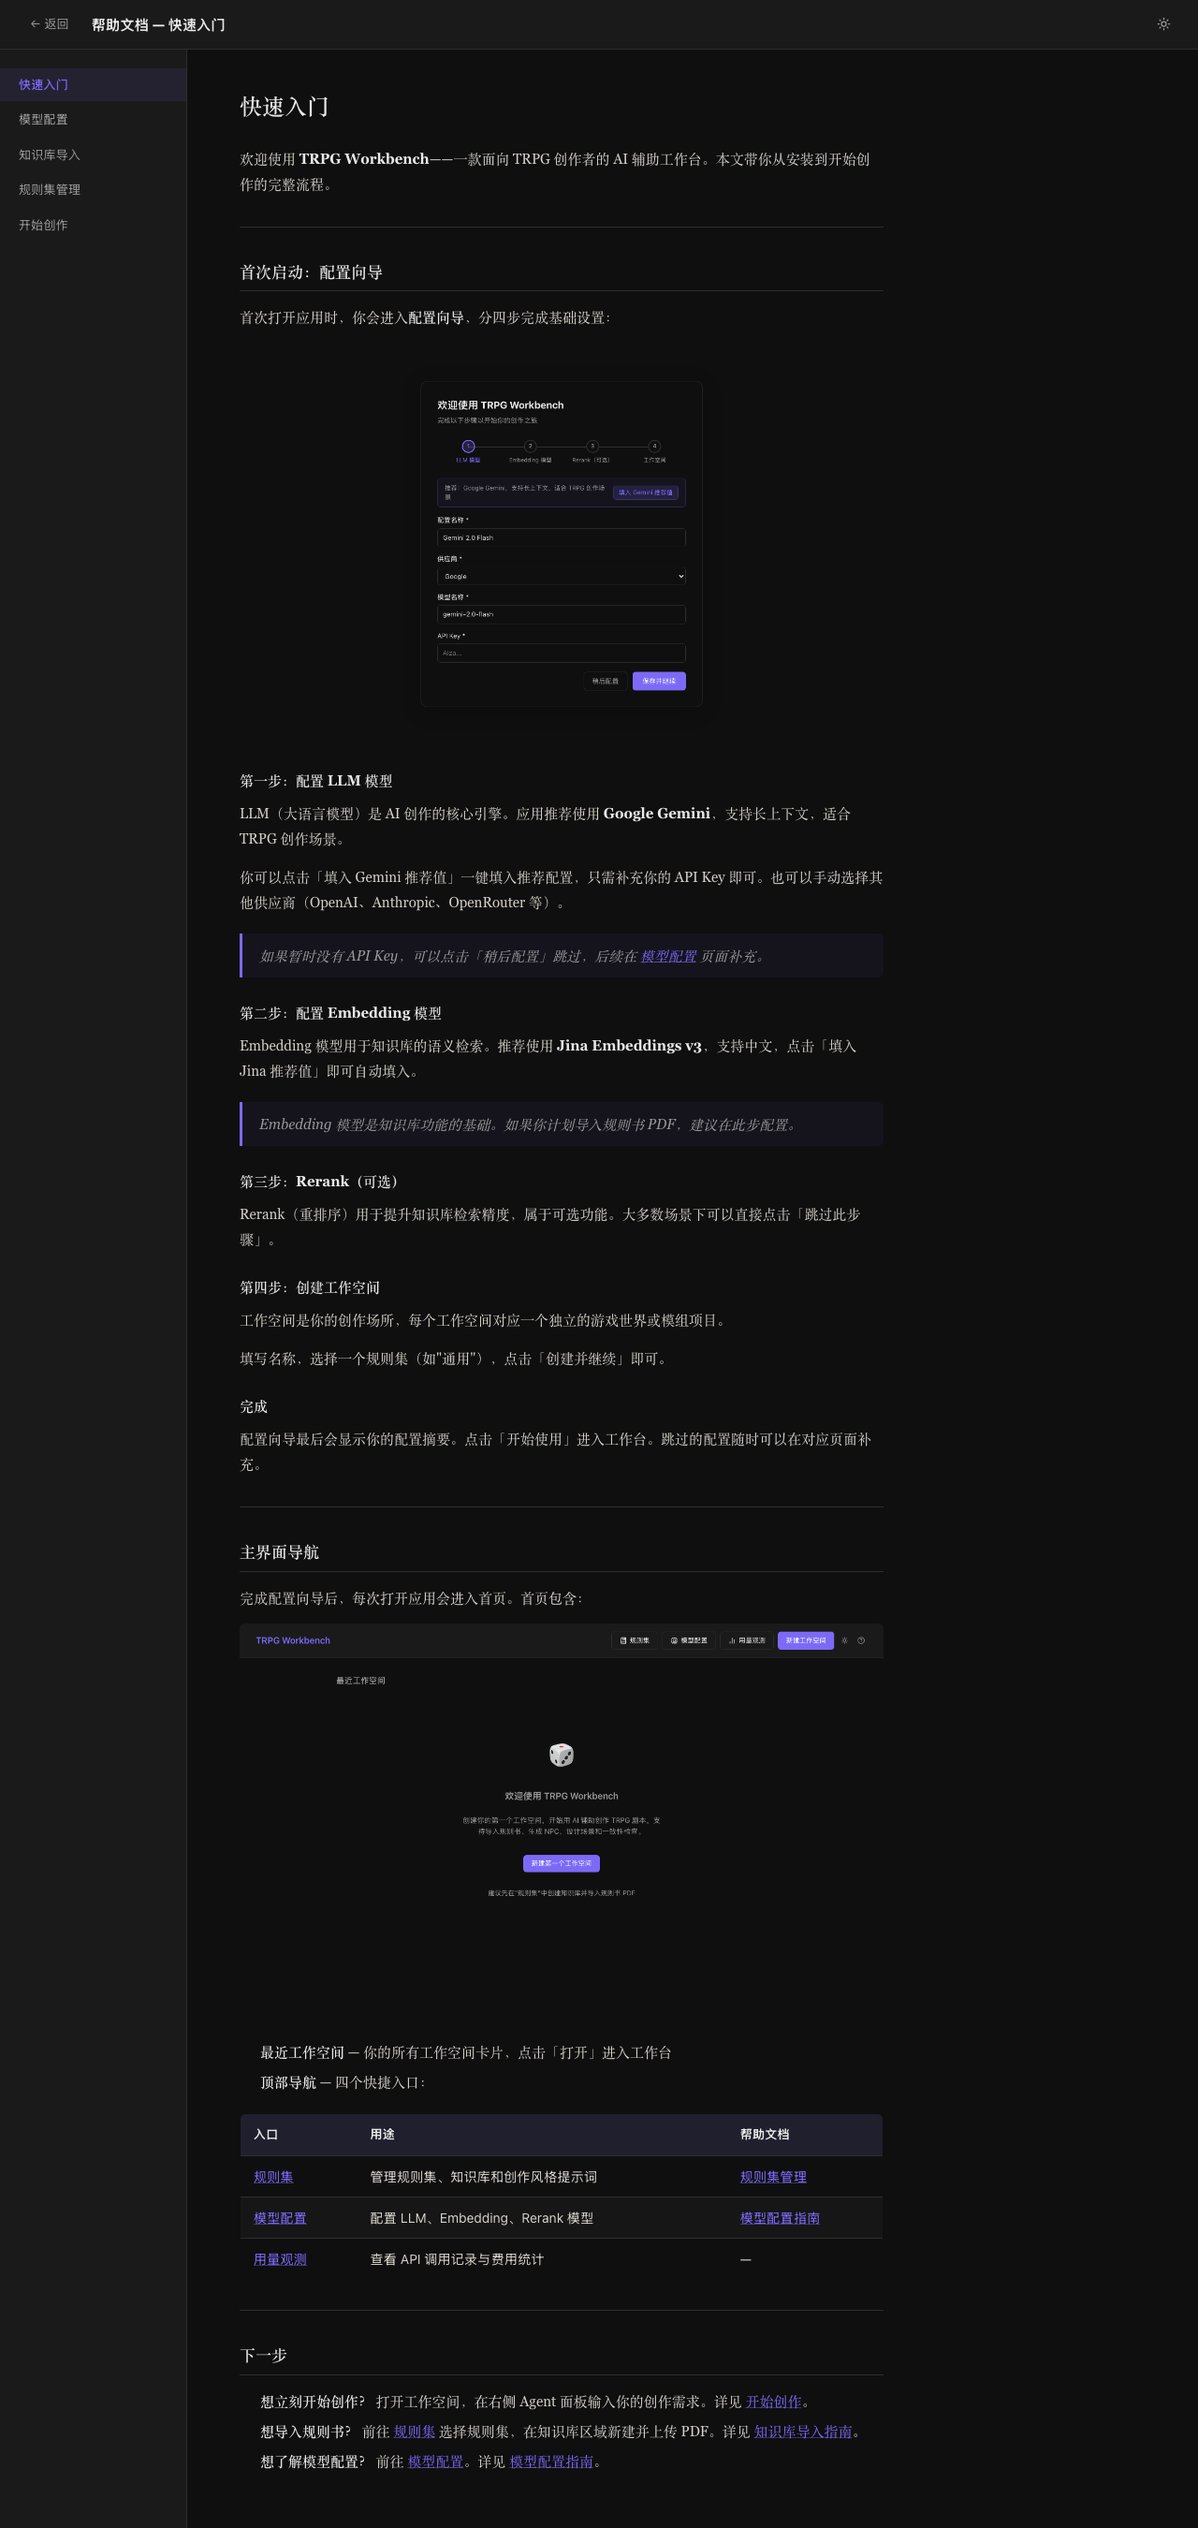
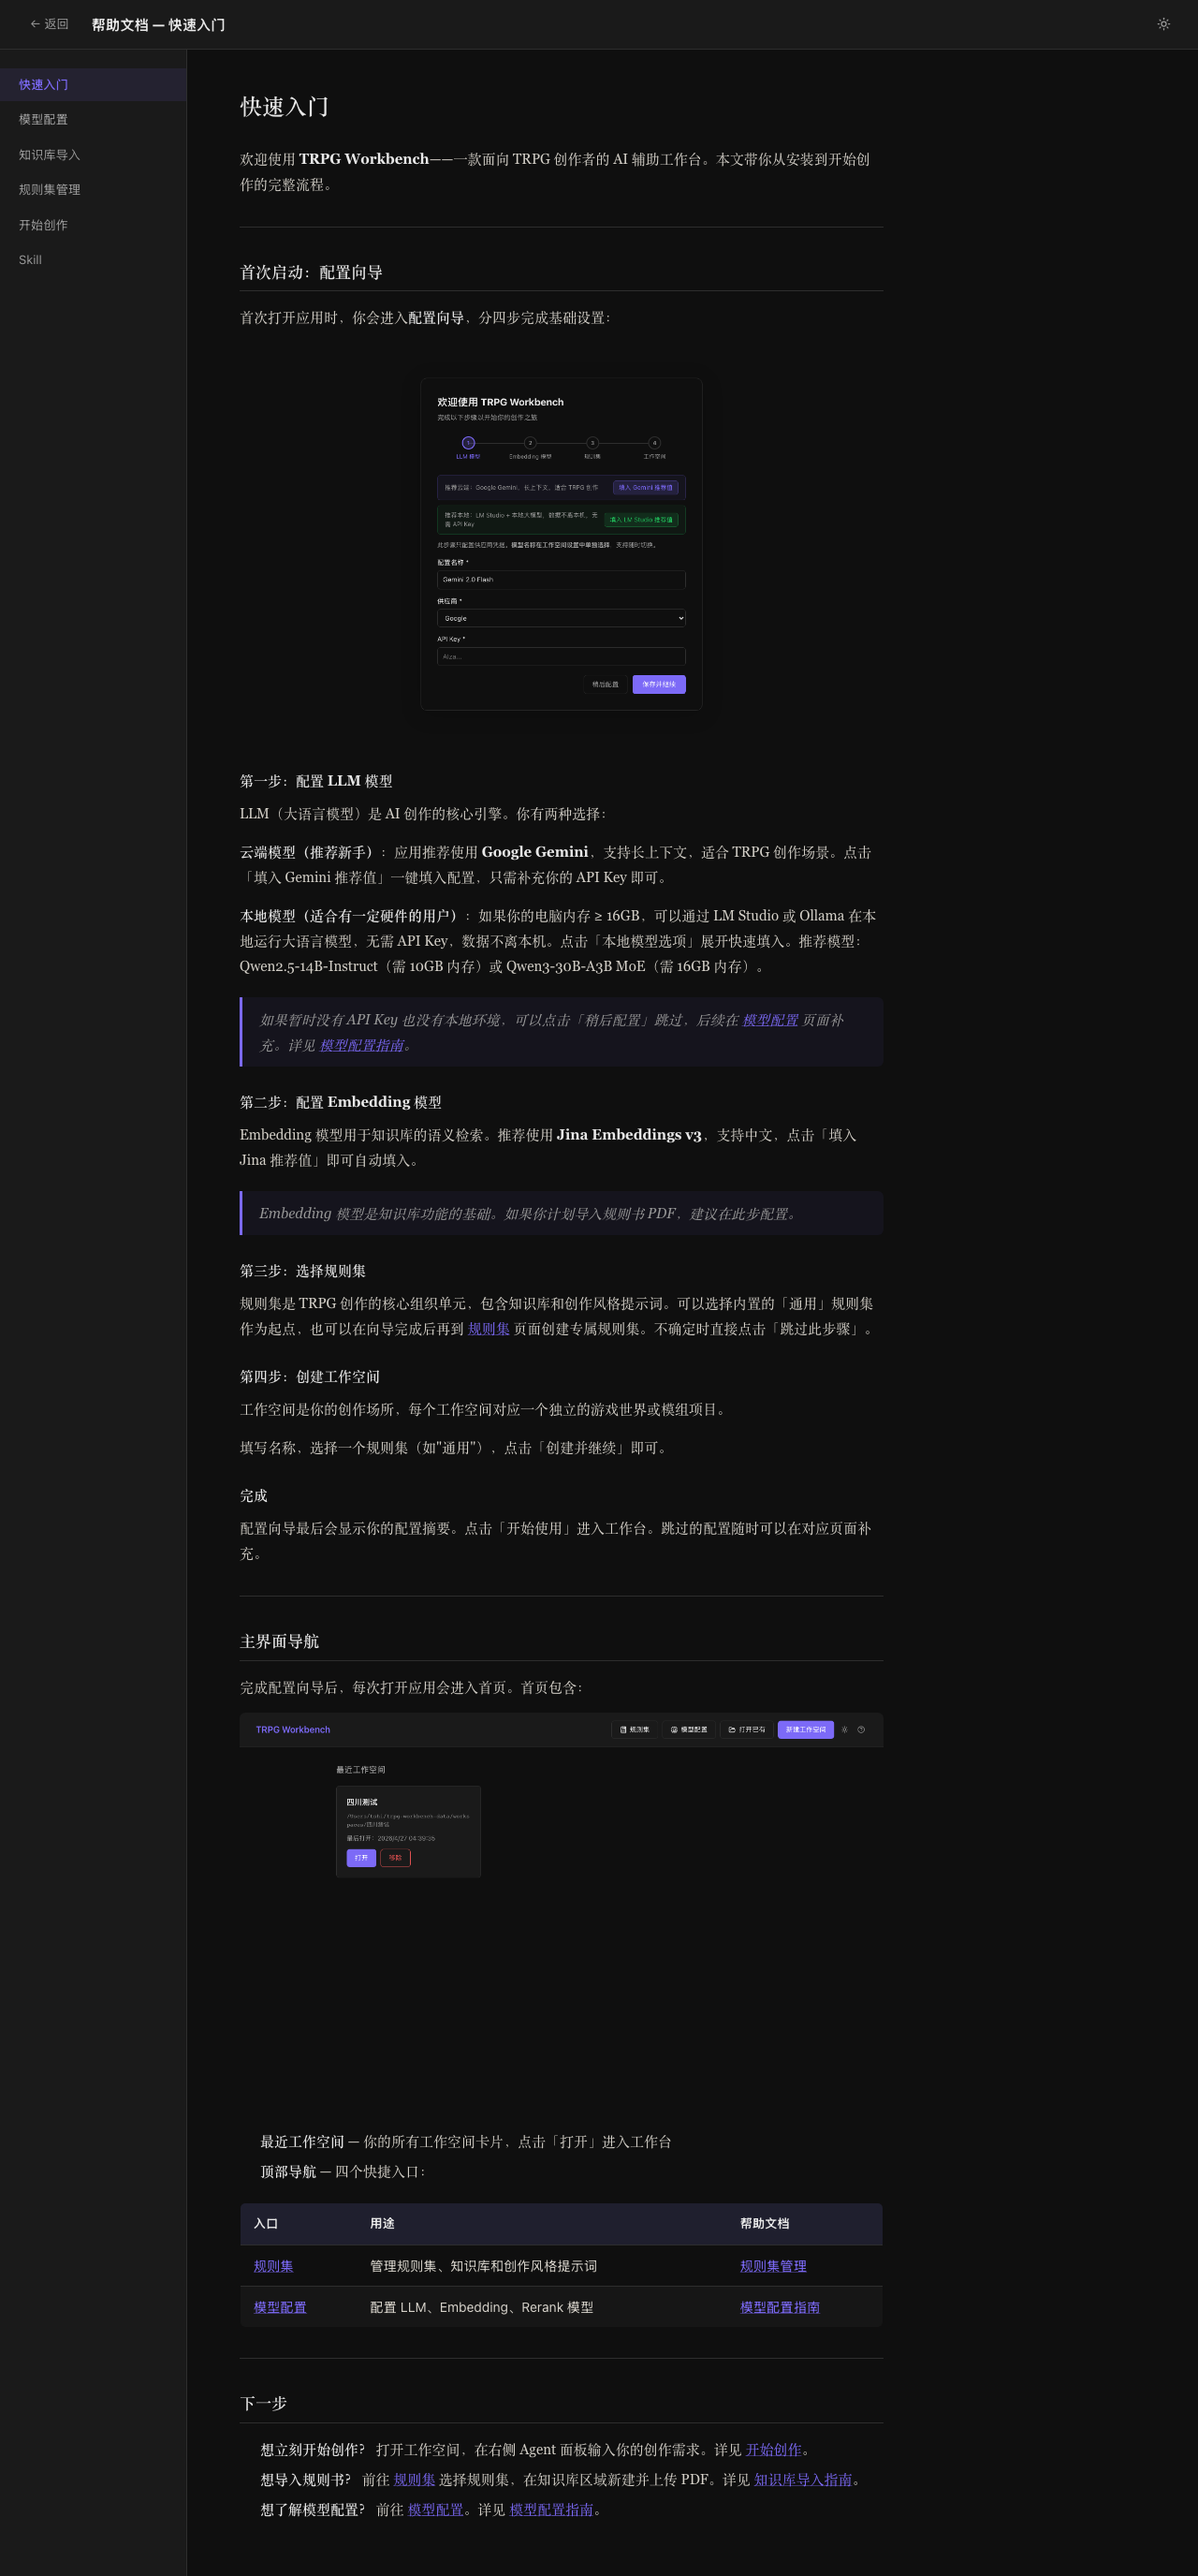
feat: update documentation and wizard steps for rule set configuration

diff --git a/apps/desktop/src/pages/WorkspaceSettingsPage.tsx b/apps/desktop/src/pages/WorkspaceSettingsPage.tsx
@@ -416,7 +416,7 @@ export default function WorkspaceSettingsPage() {
       <header className={styles.header}>
         <button className={styles.back} onClick={() => navigate(`/workspace/${id}`)}>← 返回</button>
         <h1 className={styles.title}>工作空间设置</h1>
-        <HelpButton doc="getting-started" />
+        <HelpButton doc="start-creating" />
       </header>
       <main className={styles.main}>
         <form onSubmit={handleSave} className={styles.form}>

diff --git a/scripts/smoke/smoke_and_screenshot.py b/scripts/smoke/smoke_and_screenshot.py
@@ -310,7 +310,8 @@ HELP_IMAGE_PAGES = [
 
 def _click_wizard_skip(page, button_text: str, step_name: str):
     """Click a wizard skip/next button and wait for transition."""
-    btn = page.get_by_text(button_text, exact=True)
+    # Use .first to avoid strict-mode error when multiple matches exist
+    btn = page.get_by_text(button_text, exact=True).first
     btn.wait_for(state="visible", timeout=5000)
     btn.click()
     page.wait_for_timeout(800)
@@ -354,7 +355,7 @@ def generate_help_images(frontend_url: str, backend_url: str):
 
     Handles the Setup Wizard: if the app redirects to /setup on first visit,
     captures the wizard step-1 page, then clicks through all skip buttons
-    (稍后配置 → 稍后配置 → 跳过此步骤 → 稍后创建 → 开始使用 →)
+    (稍后配置 → 稍后配置 → 稍后创建 → 稍后创建 → 开始使用 →)
     to reach the real home page.
     """
     from playwright.sync_api import sync_playwright
@@ -386,13 +387,13 @@ def generate_help_images(frontend_url: str, backend_url: str):
                 # Click through all wizard steps to reach real home page
                 # Step 1: LLM config  → "稍后配置"
                 # Step 2: Embedding   → "稍后配置"
-                # Step 3: Rerank      → "跳过此步骤"
+                # Step 3: Rule set    → "跳过此步骤"
                 # Step 4: Workspace   → "稍后创建"
                 # Summary             → "开始使用 →"
                 wizard_steps = [
                     ("稍后配置",   "Step 1 LLM"),
                     ("稍后配置",   "Step 2 Embedding"),
-                    ("跳过此步骤", "Step 3 Rerank"),
+                    ("稍后创建",   "Step 3 Rule set"),
                     ("稍后创建",   "Step 4 Workspace"),
                     ("开始使用 →", "Summary → Home"),
                 ]

diff --git a/apps/desktop/src/help/rule-set-management.md b/apps/desktop/src/help/rule-set-management.md
@@ -65,6 +65,18 @@
 
 ---
 
+## 自定义资产类型
+
+规则集详情中的「资产类型」区域，可以为当前规则集下的所有工作空间定制额外的资产类型（在内置类型之外扩展）。
+
+- 点击「添加资产类型」，在弹窗中填写类型名称、类型键（唯一标识，创建后不可修改）和描述
+- 点击「AI 生成」：描述你想要的资产类型，AI 自动生成名称、键名和字段说明
+- 已创建的自定义类型可以点击「编辑」修改名称和描述（类型键只读）
+
+自定义资产类型会出现在该规则集下所有工作空间的资产列表中，与内置类型并列显示。
+
+---
+
 ## 删除规则集
 
 选中规则集后点击删除按钮。如果有工作空间正在使用该规则集，系统会拒绝删除——需先将相关工作空间切换到其他规则集。删除规则集会同时删除其下所有知识库。

diff --git a/README.md b/README.md
@@ -99,11 +99,9 @@ cargo tauri dev
 
 ### 首次配置
 
-1. 应用启动后进入主界面，点击「新建工作空间」
-2. 进入「模型配置」→ LLM 配置，新增 LLM Profile（如 OpenAI gpt-4o）
-3. 进入「模型配置」→ Embedding 配置，新增 Embedding Profile（如 text-embedding-3-small）
-4. 进入工作空间设置，在「模型路由」区域绑定默认 LLM 和 Embedding 模型
-5. 可在「模型配置」→「模型发现」Tab 查看静态 catalog 及动态拉取最新模型列表
+1. 应用首次启动会进入**配置向导**（4 步）：LLM 模型 → Embedding 模型 → 规则集 → 工作空间；各步均可跳过后补
+2. 如需手动配置，进入「模型配置」分别添加 LLM Profile 和 Embedding Profile
+3. 进入工作空间设置，在「模型路由」区域绑定默认 LLM 和 Embedding 模型
 
 ---
 

diff --git a/apps/desktop/src/help/start-creating.md b/apps/desktop/src/help/start-creating.md
@@ -66,6 +66,8 @@ Agent 面板下方提供三个快捷按钮：
 | 地图简报 | 地图相关信息 |
 | 世界设定 | 世界观和背景设定 |
 
+> 以上为内置资产类型。可在 [规则集管理](/settings/rule-sets) 页面为当前规则集添加自定义资产类型，详见 [规则集管理](/help/rule-set-management)。
+
 ---
 
 ## 前置配置
